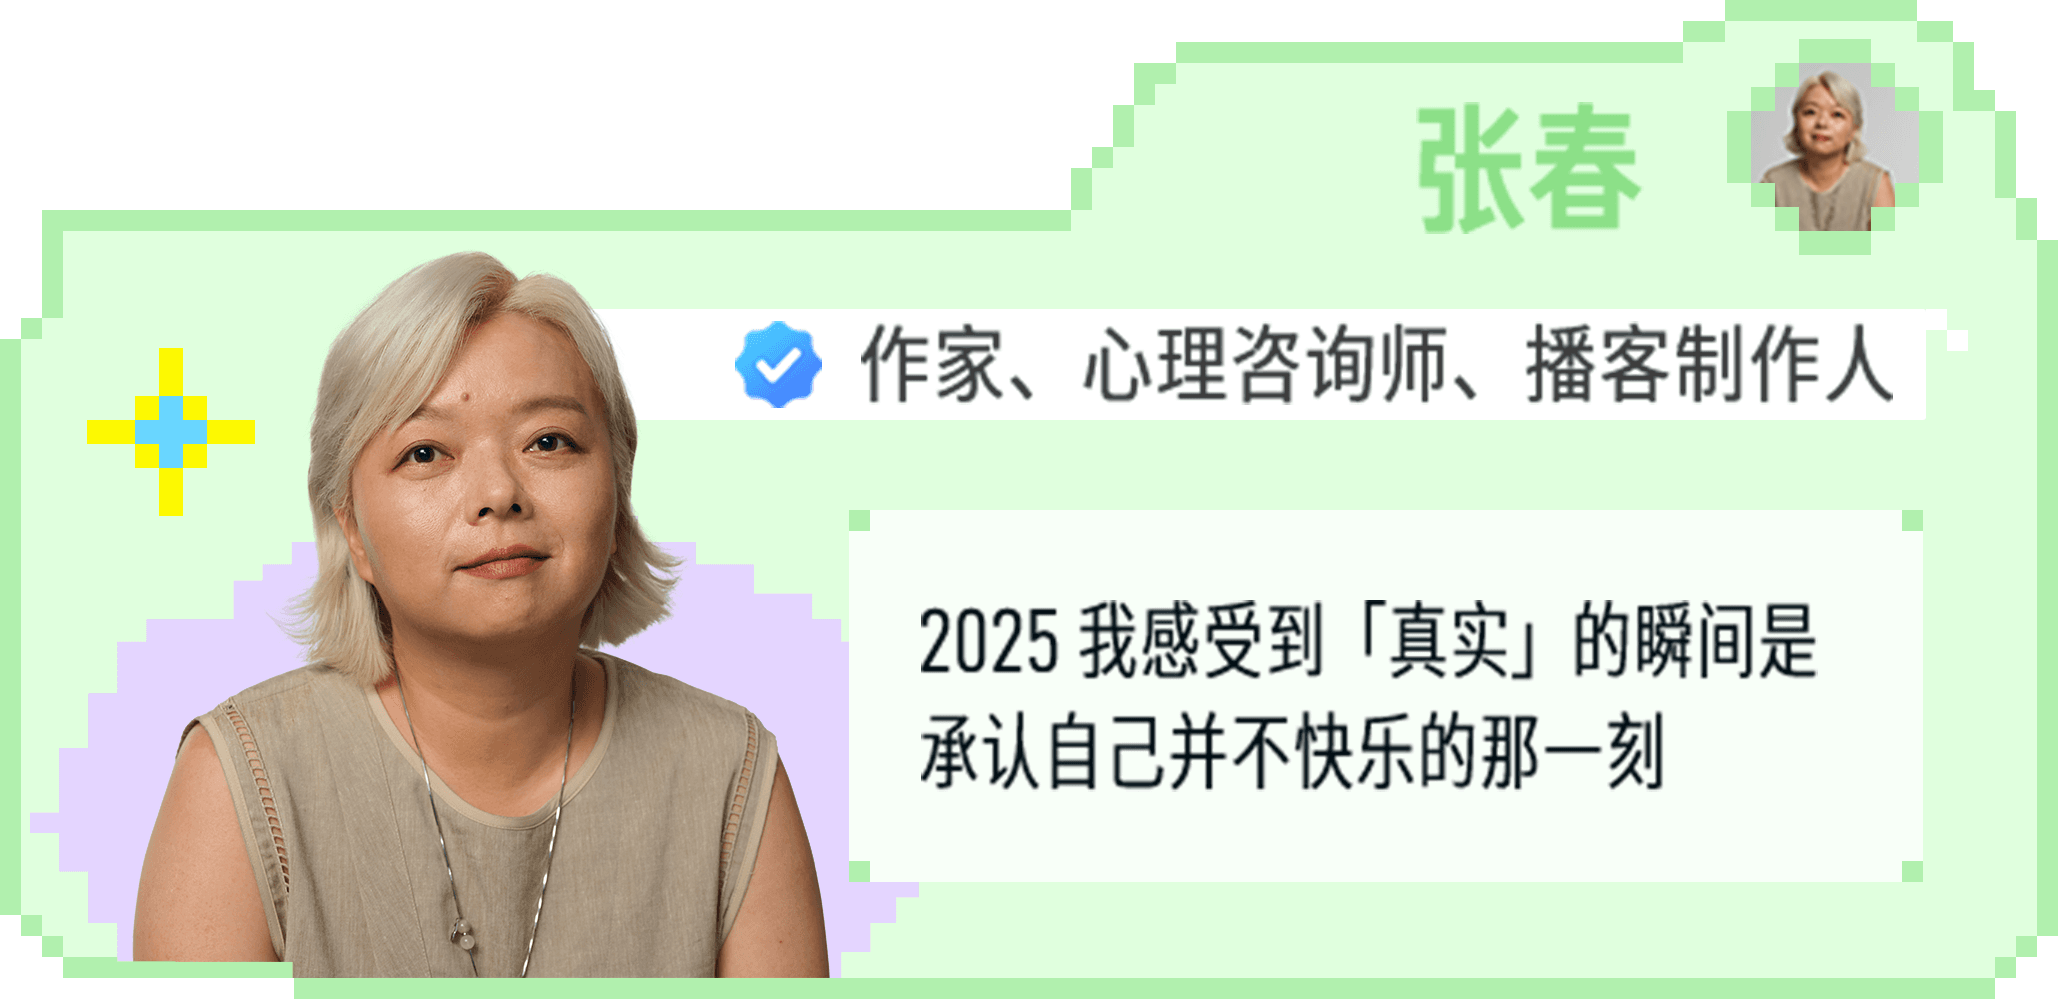
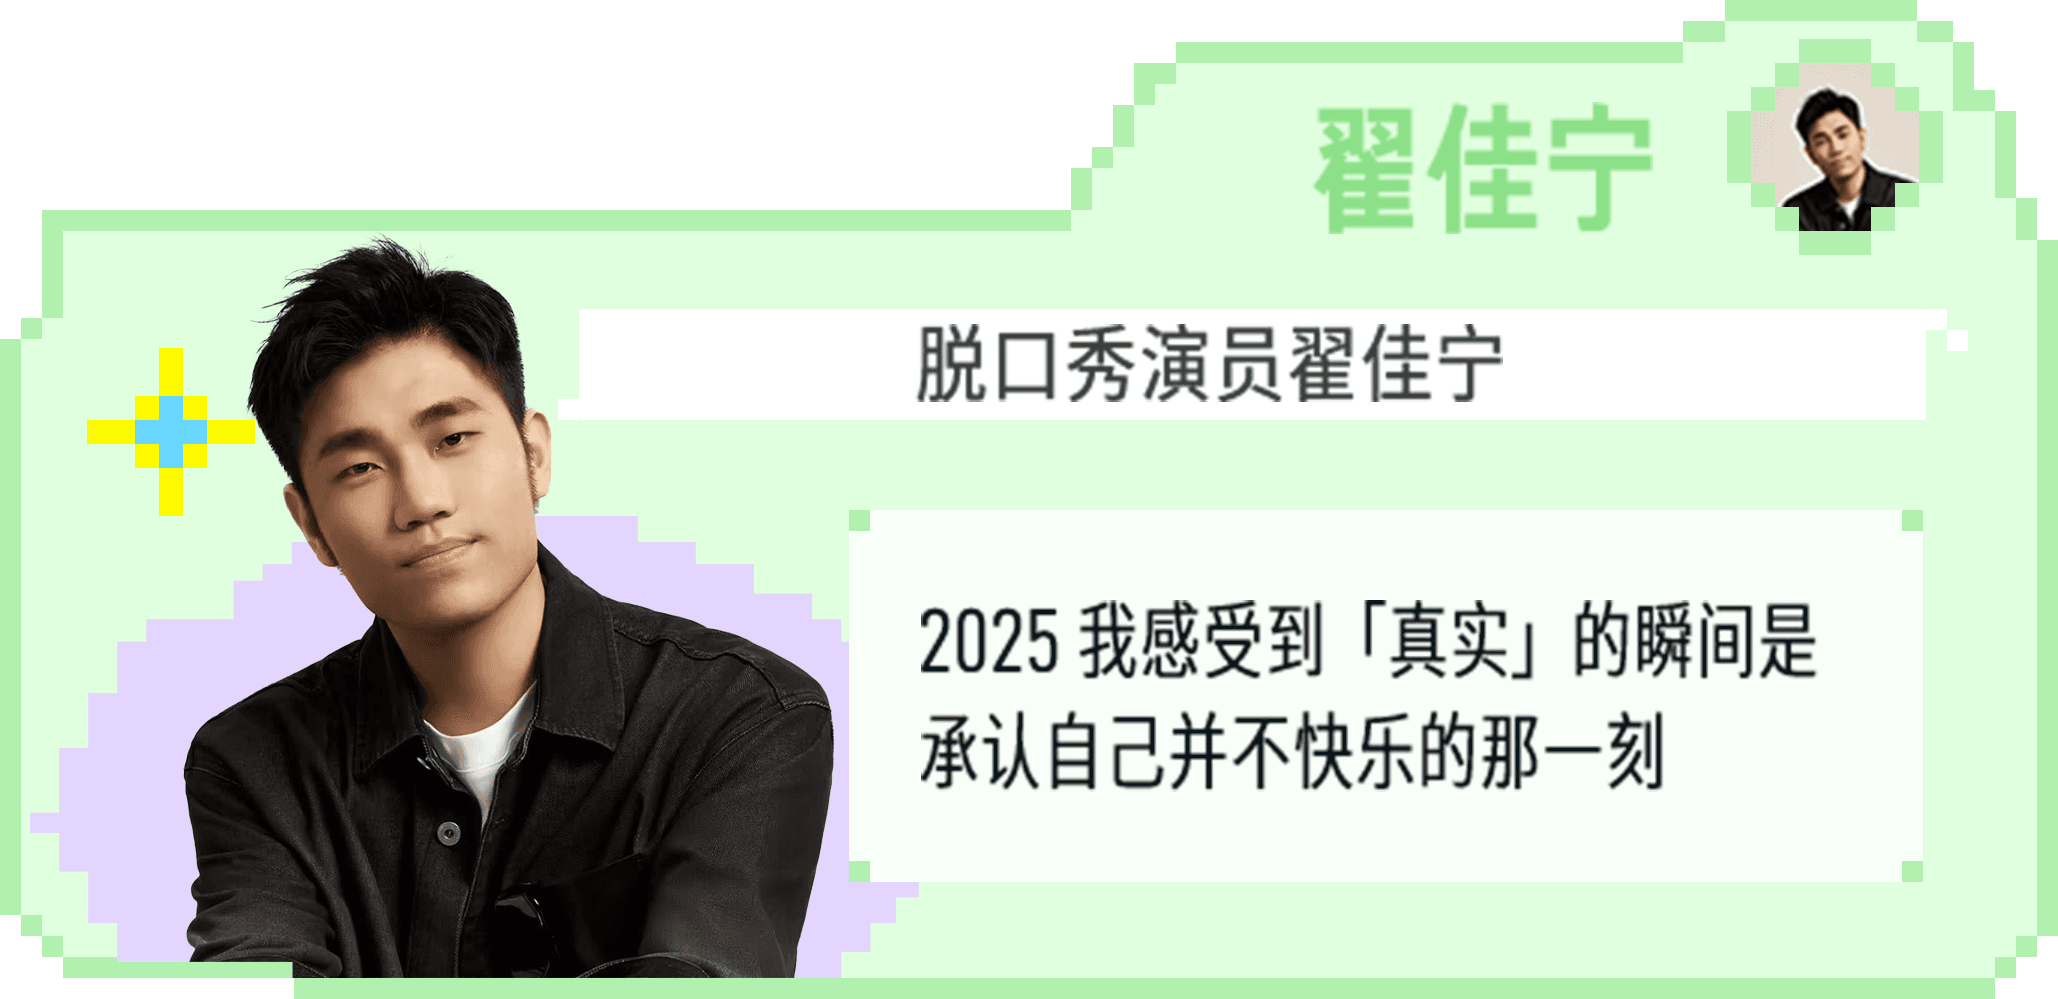
folder image update

diff --git a/src/components/compound/FolderSection.tsx b/src/components/compound/FolderSection.tsx
@@ -8,13 +8,19 @@ import { useInView } from 'react-intersection-observer';
 
 const clipPathleft = 'polygon(43% 0, 50% 19%, 100% 20%, 100% 100%, 68% 100%, 32% 100%, 0 100%, 0% 43%, 0 0)';
 const clipPathright = 'polygon(50% 20%, 57% 0, 100% 0, 100% 100%, 68% 100%, 32% 100%, 0 100%, 0% 43%, 0 20%)';
-
+const TOP_POSITIONS = [
+  'top-[0px]',
+  'top-[16px]',
+  'top-[32px]',
+  'top-[48px]',
+  'top-[64px]',
+  'top-[80px]',
+];
 const FolderSection = () => {
   const { assets } = useAssets();
   const [activeIndex, setActiveIndex] = useState<number | null>(null);
   const { trackShow, trackEvent } = useZA();
   const { ref: moduleRef, inView: moduleInView } = useInView({ triggerOnce: true });
-  const { ref: imgRef, inView: imgInView } = useInView({ triggerOnce: true });
 
   useEffect(() => {
     if (moduleInView) {
@@ -32,42 +38,42 @@ const FolderSection = () => {
     {
       id: 0,
       asset: assets.folders.all[0],
-      name: '嘉宾1',
+      name: '鸡排哥',
       clipPath: clipPathleft,
       url: 'https://www.zhihu.com/question/1974440788541793545'
     },
     {
       id: 1,
       asset: assets.folders.all[1],
-      name: '嘉宾2',
+      name: '张春',
       clipPath: clipPathright,
       url: 'https://www.zhihu.com/question/1974440788541793545'
     },
     {
       id: 2,
       asset: assets.folders.all[2],
-      name: '嘉宾3',
+      name: '马家辉',
       clipPath: clipPathleft,
       url: 'https://www.zhihu.com/question/1974440788541793545'
     },
     {
       id: 3,
       asset: assets.folders.all[3],
-      name: '嘉宾4',
+      name: '翟佳宁',
       clipPath: clipPathright,
       url: 'https://www.zhihu.com/question/1974440788541793545'
     },
     {
       id: 4,
       asset: assets.folders.all[4],
-      name: '嘉宾5',
+      name: '严飞',
       clipPath: clipPathleft,
       url: 'https://www.zhihu.com/question/1974440788541793545'
     },
     {
       id: 5,
       asset: assets.folders.all[5],
-      name: '嘉宾6',
+      name: '陶芳波',
       clipPath: clipPathright,
       url: 'https://www.zhihu.com/question/1974440788541793545'
     },
@@ -129,19 +135,18 @@ const FolderSection = () => {
           const topOffset = index * 16;
           const isActive = activeIndex === index;
           const { url, width, height, alt } = folder.asset as { url: string; width: number; height: number; alt: string };
-
+          const topClass = TOP_POSITIONS[index] || 'top-[0px]';
           return (
             <div
               key={folder.id}
               onClick={(e) => handleFolderClick(e, index, folder)}
               className={`
-                absolute left-[16px] right-[16px] mx-auto
+                absolute left-[16px] right-[16px] mx-auto ${topClass}
                 transition-transform duration-500 ease-out cursor-pointer
                 ${isActive ? '-translate-y-[105px]' : 'translate-y-0'}
               `}
               style={{
                 zIndex: zIndex,
-                top: `${topOffset}px`,
                 clipPath: folder.clipPath,
                 WebkitClipPath: folder.clipPath,
               }}
@@ -160,7 +165,7 @@ const FolderSection = () => {
         })}
       </div>
 
-      <div className="relative -mt-[54px] z-50 flex flex-col items-center justify-center">
+      <div className="relative -mt-[50px] z-50 flex flex-col items-center justify-center">
         <div className="mb-2 px-[16px]
          after:content-[''] 
          after:absolute 
